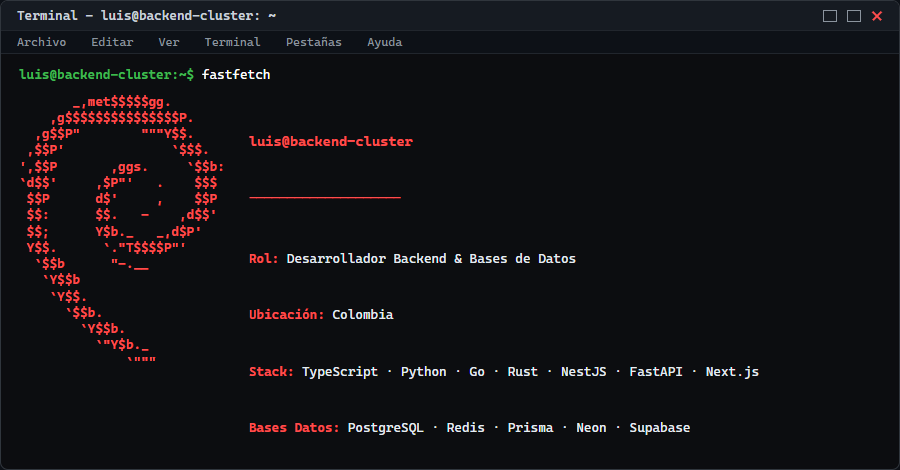
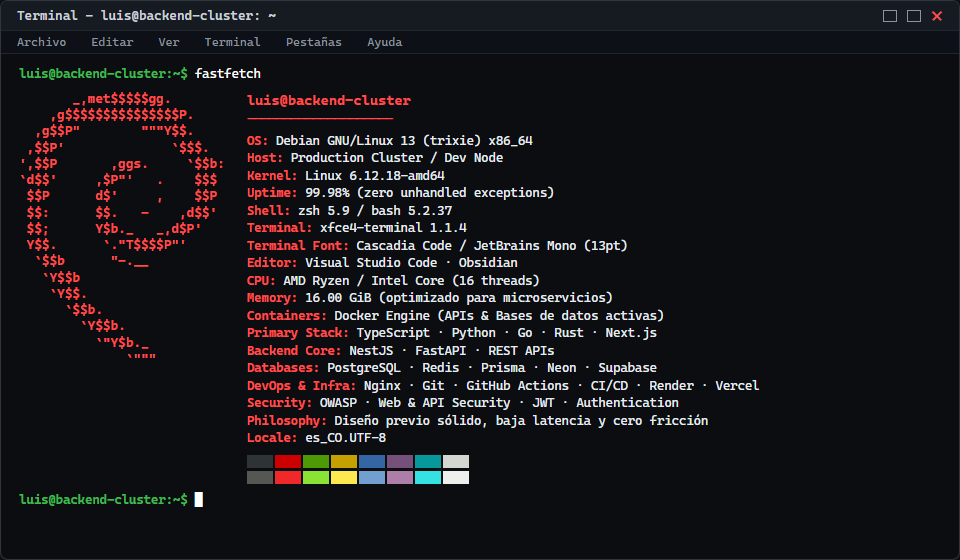
feat: populate fastfetch with full 18-line authentic system and dev specs

diff --git a/terminal.html b/terminal.html
@@ -7,13 +7,13 @@
   html, body {
     background-color: #0d1117;
     font-family: 'Cascadia Code', 'Consolas', 'Courier New', monospace;
-    width: 900px;
-    height: 470px;
+    width: 960px;
+    height: 560px;
     overflow: hidden;
   }
   .window {
-    width: 900px;
-    height: 470px;
+    width: 960px;
+    height: 560px;
     background-color: #0c0d10;
     border: 1px solid #30363d;
     border-radius: 8px;
@@ -78,12 +78,12 @@
   .terminal-body {
     padding: 12px 18px;
     color: #e6edf3;
-    font-size: 13px;
+    font-size: 12.5px;
     line-height: 1.35;
     flex-grow: 1;
   }
   .prompt {
-    margin-bottom: 10px;
+    margin-bottom: 8px;
   }
   .prompt-user {
     color: #3fb950;
@@ -95,7 +95,7 @@
 
   .content-grid {
     display: flex;
-    gap: 24px;
+    gap: 22px;
     align-items: flex-start;
   }
 
@@ -110,8 +110,7 @@
 
   .specs {
     flex: 1;
-    white-space: pre;
-    line-height: 1.45;
+    line-height: 1.4;
   }
   .spec-header {
     color: #ff4d4d;
@@ -122,6 +121,11 @@
     color: #ff4d4d;
     margin-bottom: 4px;
   }
+  .item {
+    white-space: nowrap;
+    overflow: hidden;
+    text-overflow: ellipsis;
+  }
   .label {
     color: #ff4d4d;
     font-weight: bold;
@@ -131,7 +135,7 @@
   }
 
   .palette {
-    margin-top: 10px;
+    margin-top: 8px;
     display: flex;
     flex-direction: column;
     gap: 3px;
@@ -141,12 +145,12 @@
     gap: 2px;
   }
   .color-box {
-    width: 28px;
-    height: 14px;
+    width: 26px;
+    height: 13px;
   }
 
   .bottom-prompt {
-    margin-top: 10px;
+    margin-top: 8px;
   }
   .cursor {
     color: #ffffff;
@@ -200,15 +204,24 @@
       <div class="specs">
         <div class="spec-header">luis@backend-cluster</div>
         <div class="spec-divider">--------------------</div>
-        <div><span class="label">Rol: </span><span class="val">Desarrollador Backend & Bases de Datos</span></div>
-        <div><span class="label">Ubicación: </span><span class="val">Colombia</span></div>
-        <div><span class="label">Stack: </span><span class="val">TypeScript · Python · Go · Rust · NestJS · FastAPI · Next.js</span></div>
-        <div><span class="label">Bases Datos: </span><span class="val">PostgreSQL · Redis · Prisma · Neon · Supabase</span></div>
-        <div><span class="label">DevOps & Cloud: </span><span class="val">Docker · Nginx · Git · GitHub Actions · CI/CD · Render · Vercel</span></div>
-        <div><span class="label">Seguridad: </span><span class="val">OWASP · Web & API Security · JWT · Authentication</span></div>
-        <div><span class="label">Herramientas: </span><span class="val">VS Code · Obsidian · Expo · Android Studio</span></div>
-        <div><span class="label">Filosofía: </span><span class="val">Diseño técnico sólido, baja latencia y máxima eficiencia</span></div>
-        <div><span class="label">Uptime: </span><span class="val">99.9% (alimentado a café)</span></div>
+        <div class="item"><span class="label">OS: </span><span class="val">Debian GNU/Linux 13 (trixie) x86_64</span></div>
+        <div class="item"><span class="label">Host: </span><span class="val">Production Cluster / Dev Node</span></div>
+        <div class="item"><span class="label">Kernel: </span><span class="val">Linux 6.12.18-amd64</span></div>
+        <div class="item"><span class="label">Uptime: </span><span class="val">99.98% (zero unhandled exceptions)</span></div>
+        <div class="item"><span class="label">Shell: </span><span class="val">zsh 5.9 / bash 5.2.37</span></div>
+        <div class="item"><span class="label">Terminal: </span><span class="val">xfce4-terminal 1.1.4</span></div>
+        <div class="item"><span class="label">Terminal Font: </span><span class="val">Cascadia Code / JetBrains Mono (13pt)</span></div>
+        <div class="item"><span class="label">Editor: </span><span class="val">Visual Studio Code · Obsidian</span></div>
+        <div class="item"><span class="label">CPU: </span><span class="val">AMD Ryzen / Intel Core (16 threads)</span></div>
+        <div class="item"><span class="label">Memory: </span><span class="val">16.00 GiB (optimizado para microservicios)</span></div>
+        <div class="item"><span class="label">Containers: </span><span class="val">Docker Engine (APIs &amp; Bases de datos activas)</span></div>
+        <div class="item"><span class="label">Primary Stack: </span><span class="val">TypeScript · Python · Go · Rust · Next.js</span></div>
+        <div class="item"><span class="label">Backend Core: </span><span class="val">NestJS · FastAPI · REST APIs</span></div>
+        <div class="item"><span class="label">Databases: </span><span class="val">PostgreSQL · Redis · Prisma · Neon · Supabase</span></div>
+        <div class="item"><span class="label">DevOps &amp; Infra: </span><span class="val">Nginx · Git · GitHub Actions · CI/CD · Render · Vercel</span></div>
+        <div class="item"><span class="label">Security: </span><span class="val">OWASP · Web &amp; API Security · JWT · Authentication</span></div>
+        <div class="item"><span class="label">Philosophy: </span><span class="val">Diseño previo sólido, baja latencia y cero fricción</span></div>
+        <div class="item"><span class="label">Locale: </span><span class="val">es_CO.UTF-8</span></div>
 
         <div class="palette">
           <div class="palette-row">
